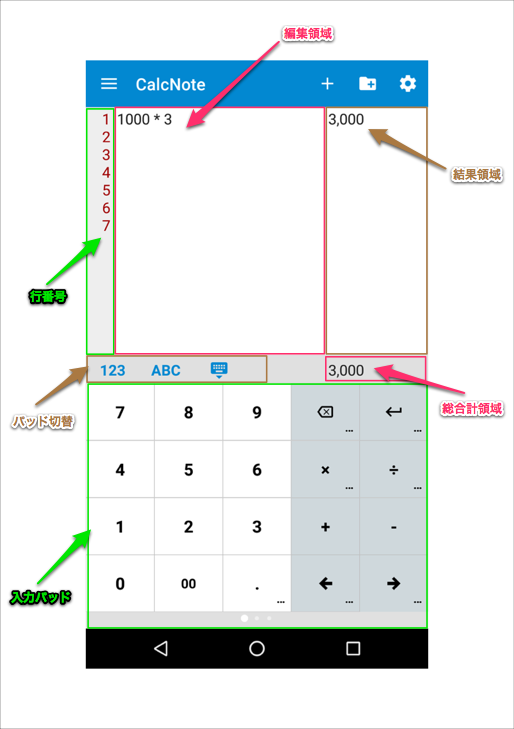
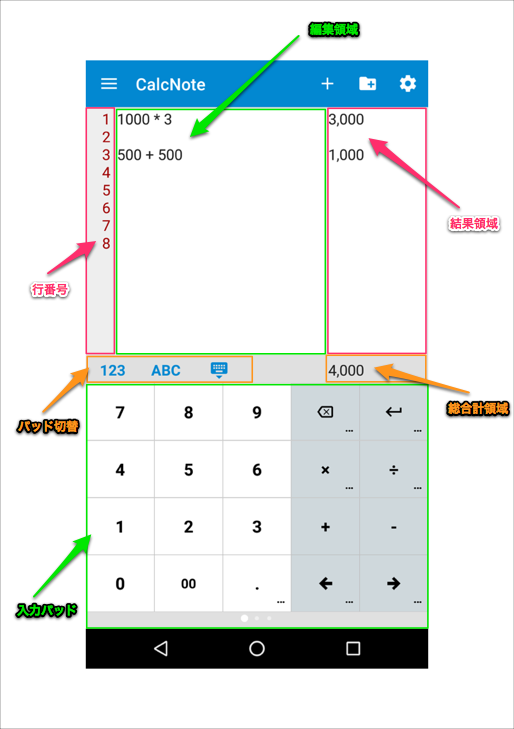
improved screenshot

Changed region(s): [[0.0, 0.0302, 0.9961, 0.8752]]

diff --git a/documents/ja/how2use.md b/documents/ja/how2use.md
@@ -1,14 +1,14 @@
 # 基本操作
-`CalcNote`は電卓アプリですがメモ帳に近い外観をしています。まずは画面の構成について説明します。
+`CalcNote`は電卓アプリですがメモ帳に近い外観をしています。
 
 <img src="https://raw.githubusercontent.com/burton999dev/CalcNoteHelp/master/images/ja/screen_description.png">
 
 |領域|説明|
 |:-----------|:------------|
-行番号|
-編集領域|
-結果領域|
-総合計領域|
+行番号|行番号が表示される領域です。タップすると[行参照]()を入力することができます。[設定]()で非表示にすることもできます。
+編集領域|ここに式を書いて計算を行います。メモ帳のように選択、全選択、コピー、切取り、貼付けなど柔軟な編集が可能です。
+結果領域|計算結果が表示されます。結果は式を編集したタイミングでリアルタイムに計算されます。結果の数字をタップすると消費税、2進数、16進数の結果が表示されます。
+総合計領域|編集領域に複数の式を書いた
 入力パッド|
 パッド切替|
 
